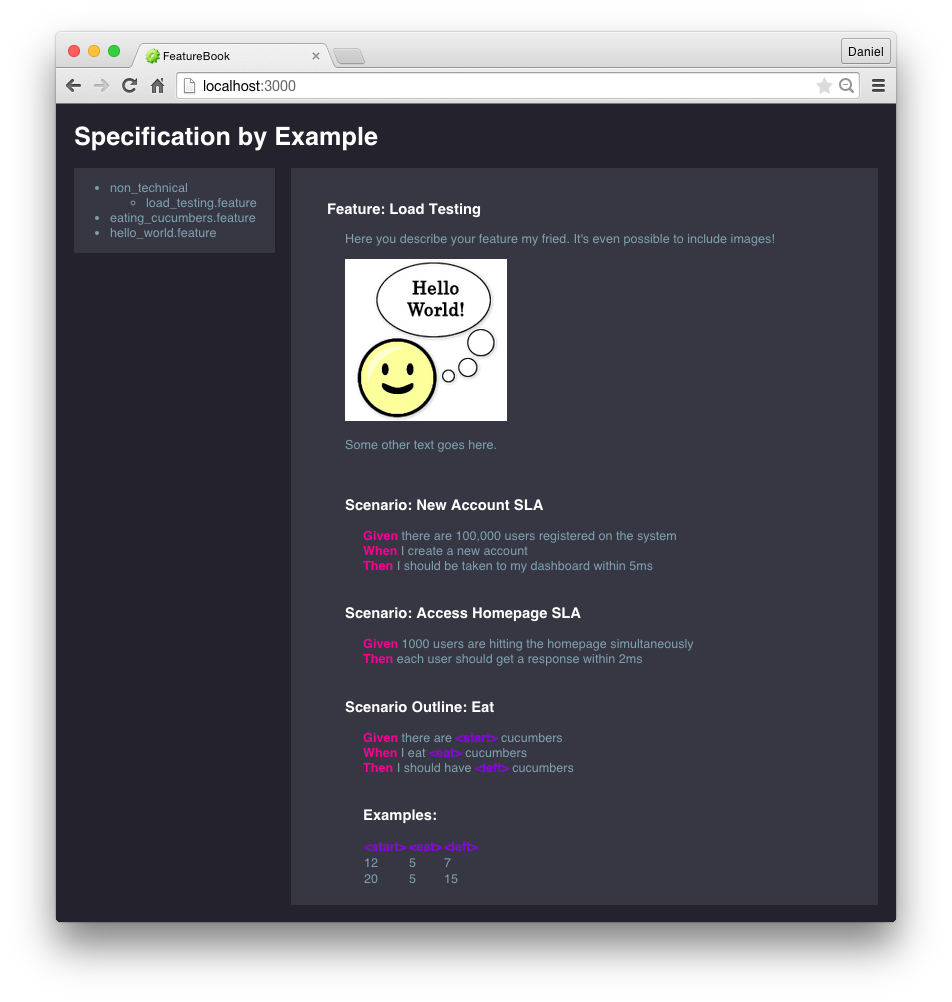
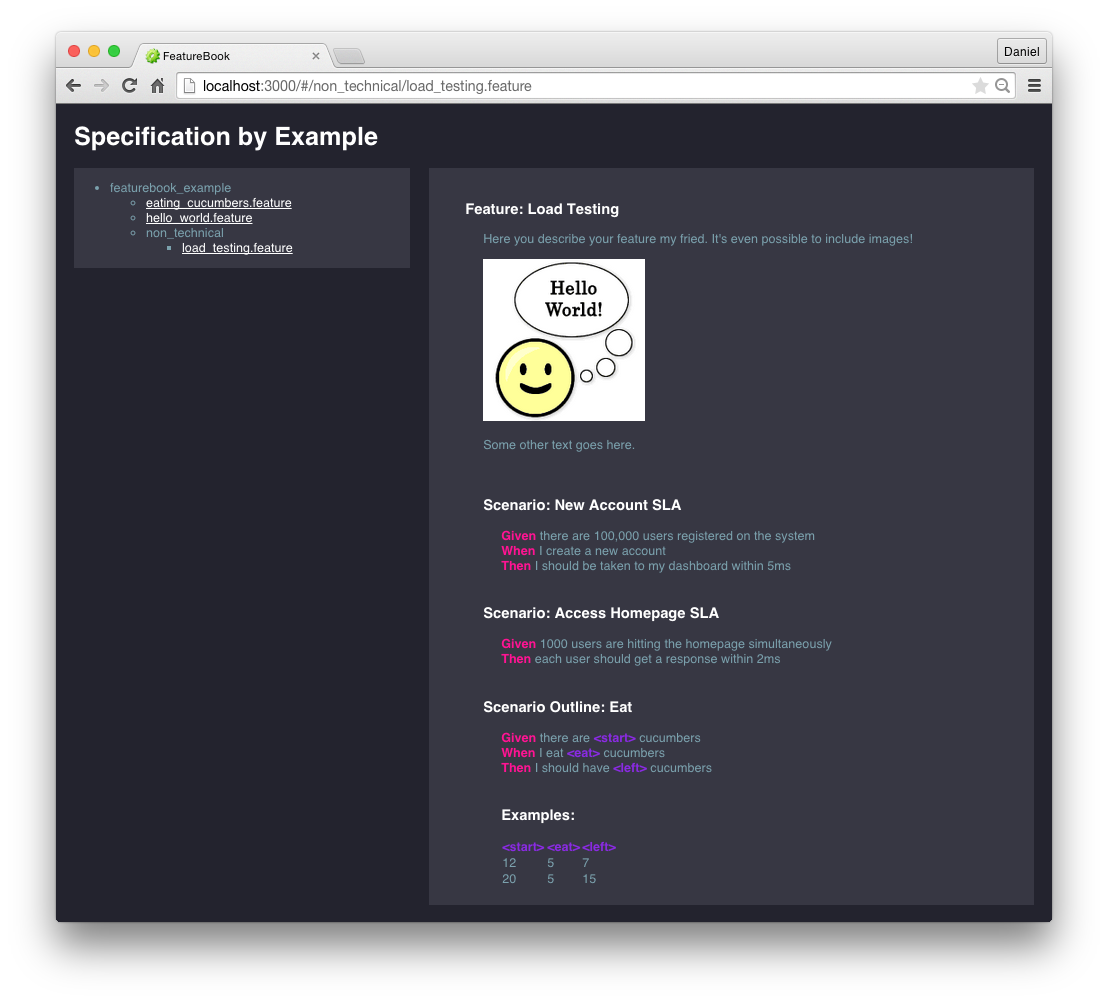
Display available feature files in the navigation page

diff --git a/public/index.html b/public/index.html
@@ -3,7 +3,7 @@
     <head lang="en">
         <meta charset="UTF-8">
         <meta name="viewport" content="width=device-width, initial-scale=1, maximum-scale=1">
-        <title>FeatureBook</title>
+        <title>FeatureBook: Specification by Example</title>
         <link href="assets/css/featurebook.css" rel="stylesheet"/>
     </head>
     <body>
@@ -13,17 +13,7 @@
             <h1>Specification by Example</h1>
 
             <!-- displays all features as a tree -->
-            <aside class="featurebook-features-tree">
-                <ul>
-                    <li>non_technical
-                        <ul>
-                            <li>load_testing.feature</li>
-                        </ul>
-                    </li>
-                    <li>eating_cucumbers.feature</li>
-                    <li>hello_world.feature</li>
-                </ul>
-            </aside>
+            <aside id="features-tree" class="featurebook-features-tree"></aside>
 
             <!-- displays currently selected feature -->
             <main class="featurebook-feature">

diff --git a/public/assets/js/featurebook.js b/public/assets/js/featurebook.js
@@ -1,3 +1,34 @@
 $(function () {
-  console.log('FeatureBook is ready to rumble!');
+    console.log('FeatureBook is ready to rumble!');
+    createFeaturesTreeElement();
 });
+
+function createFeaturesTreeElement() {
+
+    getFeatures()
+        .done(function (node) {
+            createNodeElement(node, $('<ul/>').appendTo($('#features-tree')));
+        });
+
+    function getFeatures() {
+        return $.ajax('api/rest/feature/tree');
+    }
+
+    function createNodeElement(node, container) {
+        if (node.type === 'folder') {
+            var li = $('<li/>').text(node.name).appendTo(container);
+            $.each(node.items, function (i) {
+                createNodeElement(node.items[i], $('<ul/>').appendTo(li));
+            });
+        } else {
+            var li = $('<li/>').on('click', onFeatureClicked).appendTo(container);
+            $('<a/>').text(node.name).attr('href', '#' + node.path).appendTo(li);
+        }
+
+        function onFeatureClicked() {
+            alert(node.path);
+        }
+    }
+
+
+}

diff --git a/public/assets/css/featurebook.css b/public/assets/css/featurebook.css
@@ -18,13 +18,21 @@ body {
 
 .featurebook-features-tree {
     float: left;
-    width: 25%;
+    width: 35%;
     background: #373743;
+}
+
+.featurebook-features-tree a {
+    color: white;
+}
+
+.featurebook-features-tree a:hover {
+    font-weight: bolder;
 }
 
 .featurebook-feature {
     float: left;
-    width: 73%;
+    width: 63%;
     margin-left: 2%;
     background: #373743;
     padding: 20px;
@@ -34,7 +42,7 @@ body {
 
 }
 
-.featurebook-feature-description  {
+.featurebook-feature-description {
     padding-left: 40px;
 }
 
